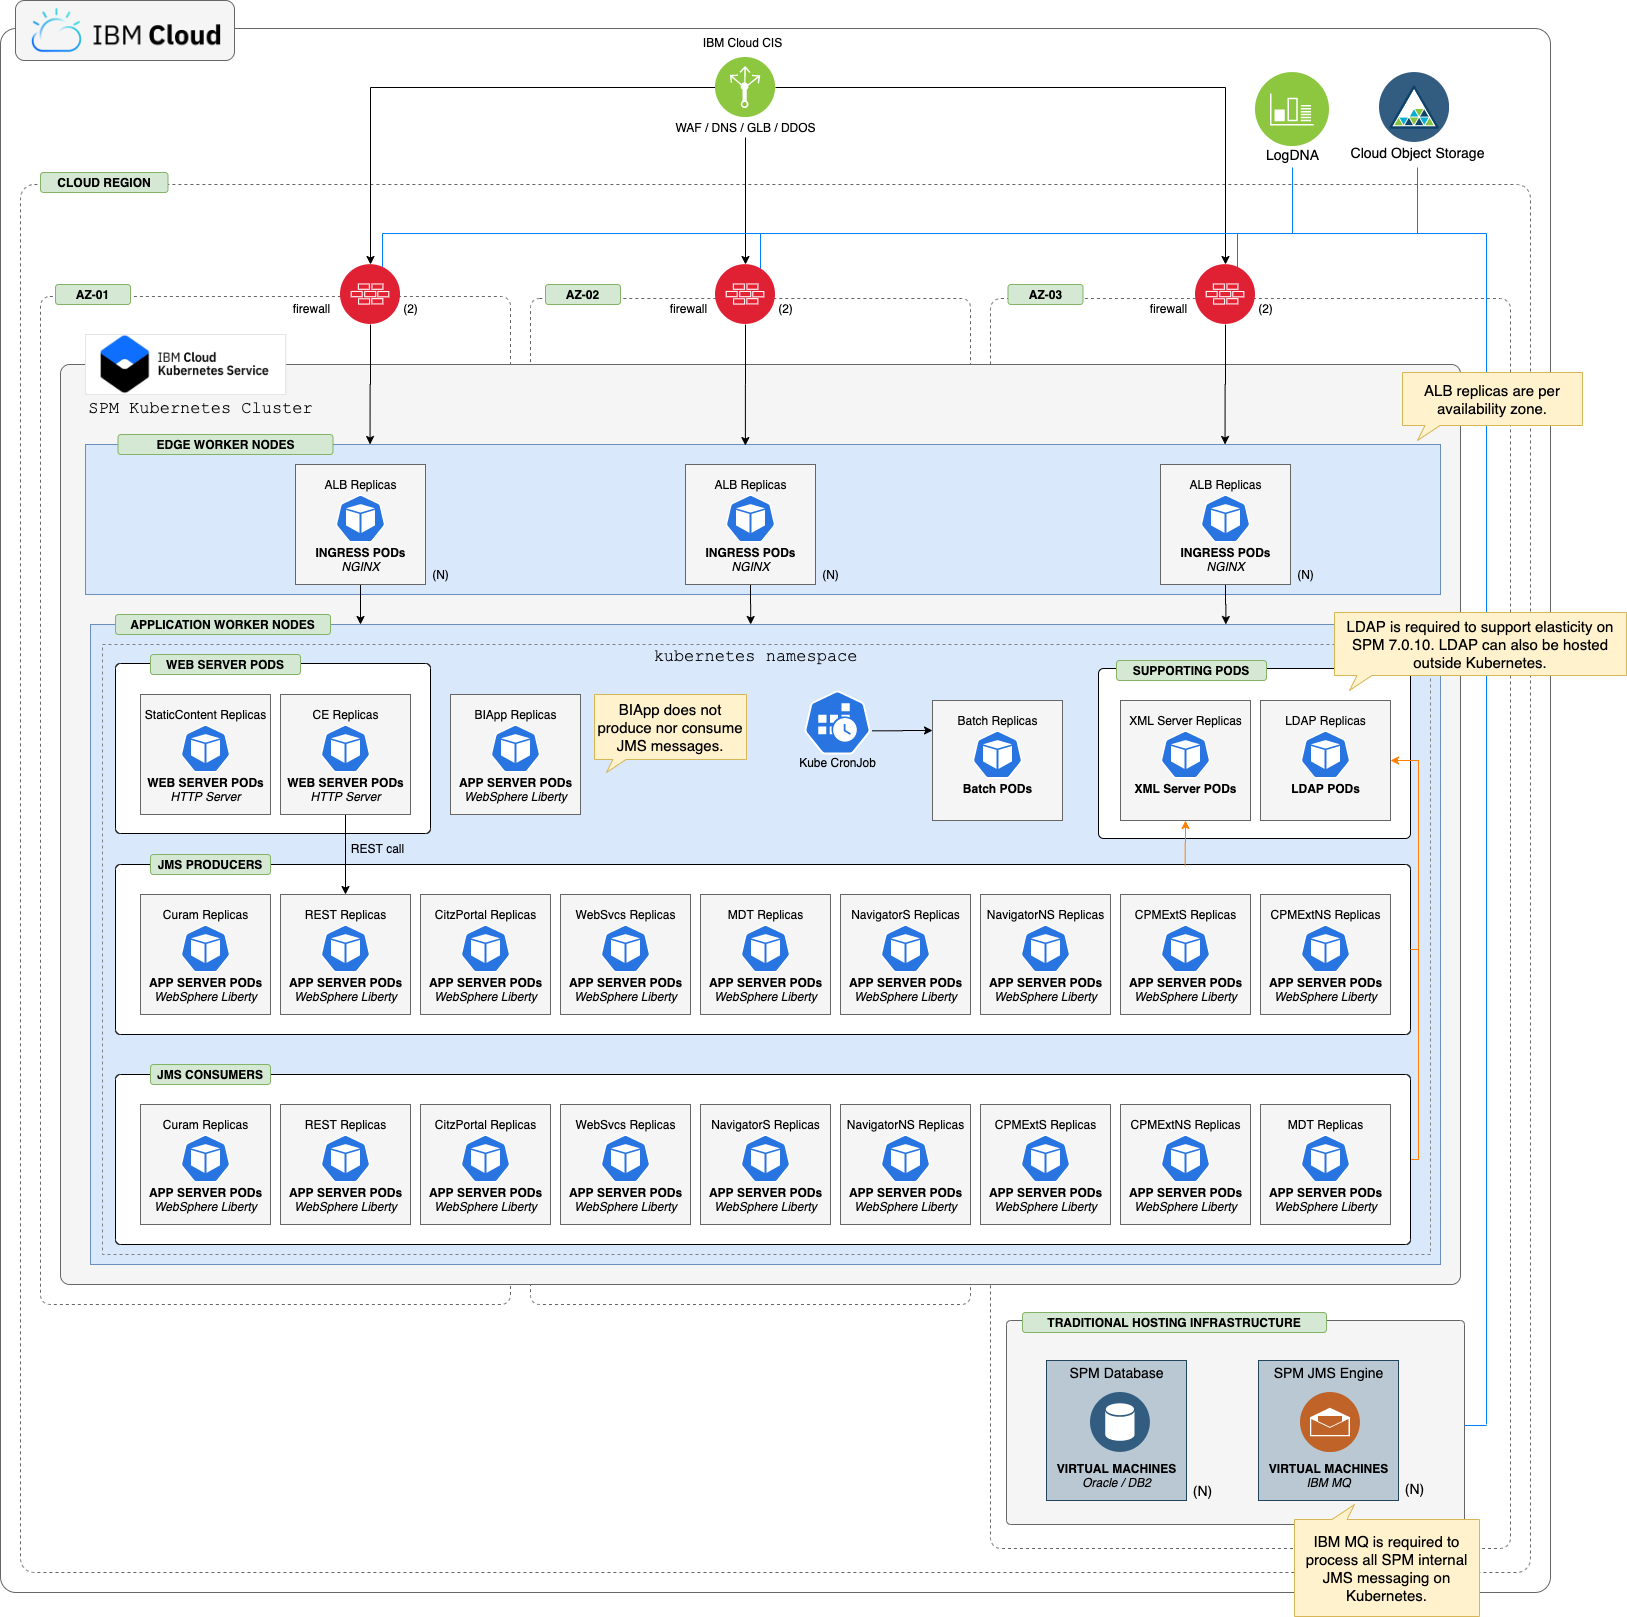
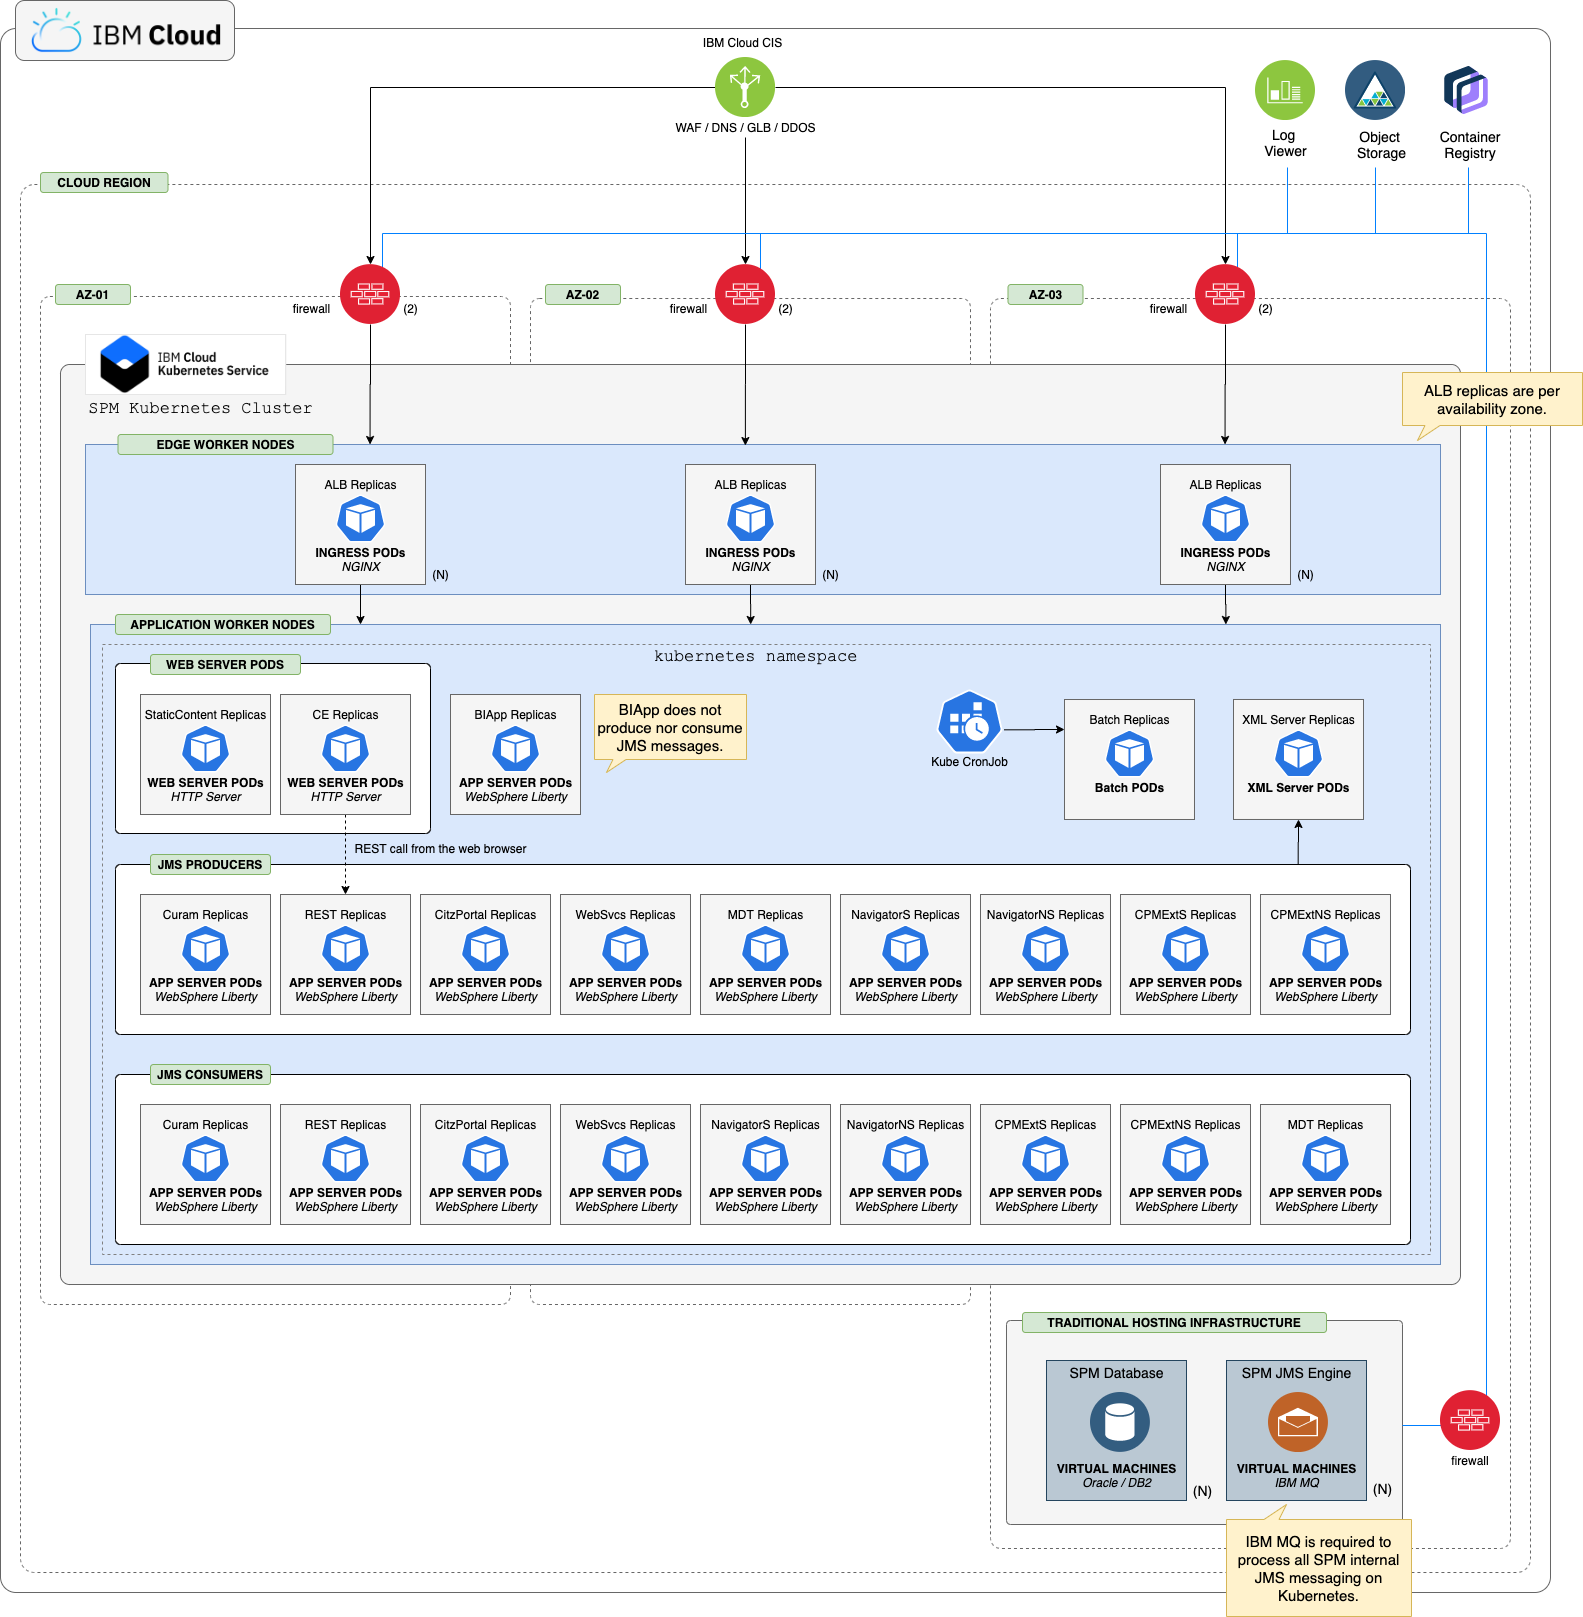
Fix reference arch

diff --git a/CHANGELOG.md b/CHANGELOG.md
@@ -2,6 +2,12 @@
 
 All notable changes to this project will be documented in this file.
 
+## v20.10.1
+
+### Fixed
+
+* Fixed the SPM IKS Reference Architecture diagram.
+
 ## v20.10.0 ![SPM 7.0.11.0](https://img.shields.io/badge/-SPM_7.0.11.0-green)
 
 ### Removed
